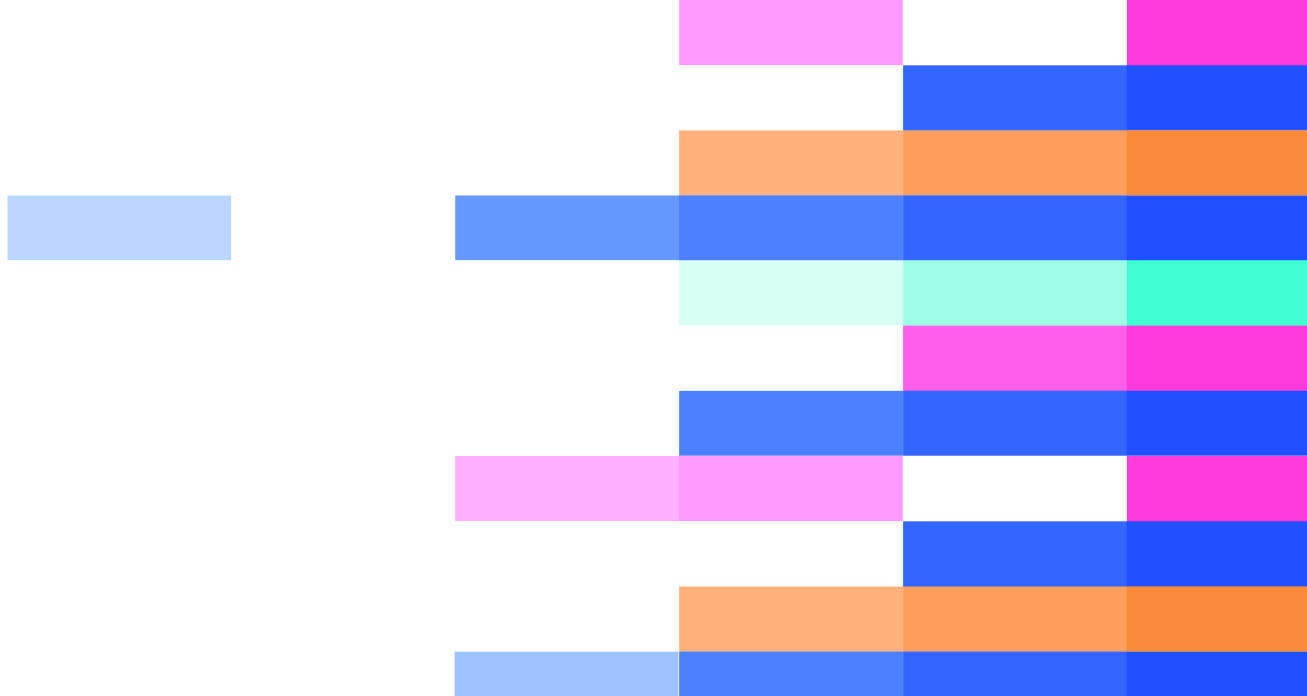
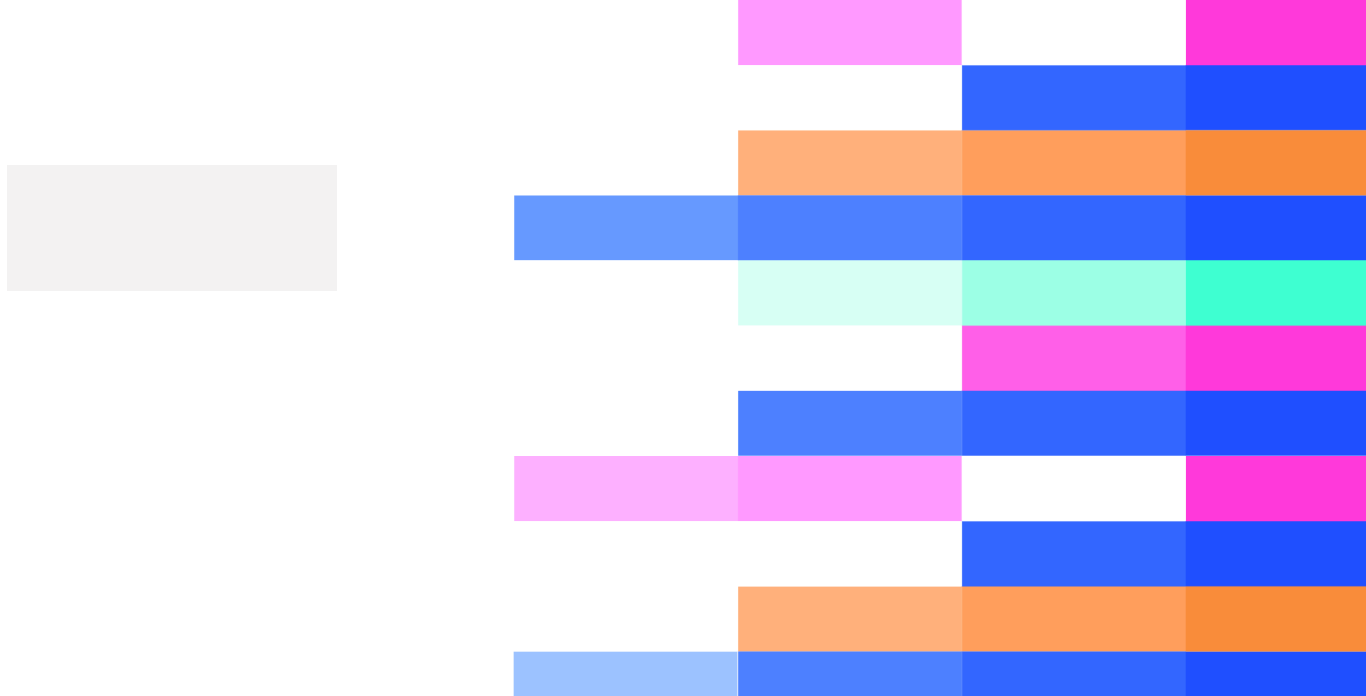
hero image updated: LinkedInFeed

diff --git a/app/(default)/linkedIn-feed/page.tsx b/app/(default)/linkedIn-feed/page.tsx
@@ -51,7 +51,7 @@ const LinkedInFeedHero = () => {
                     width={0}
                     height={0}
                     sizes='100vw'
-                    className='w-full h-[200px]'
+                    className='w-full h-[300px]'
                     priority
                   />
                 </div>
